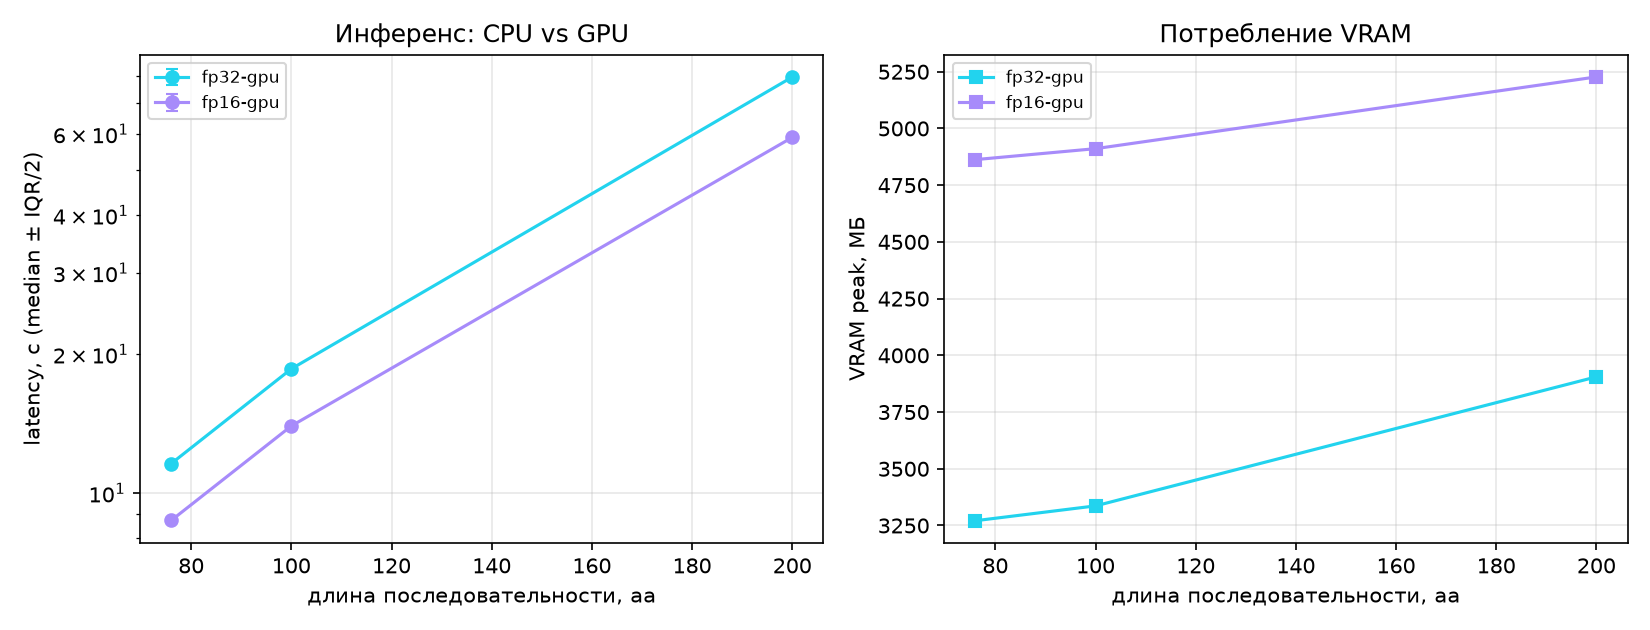
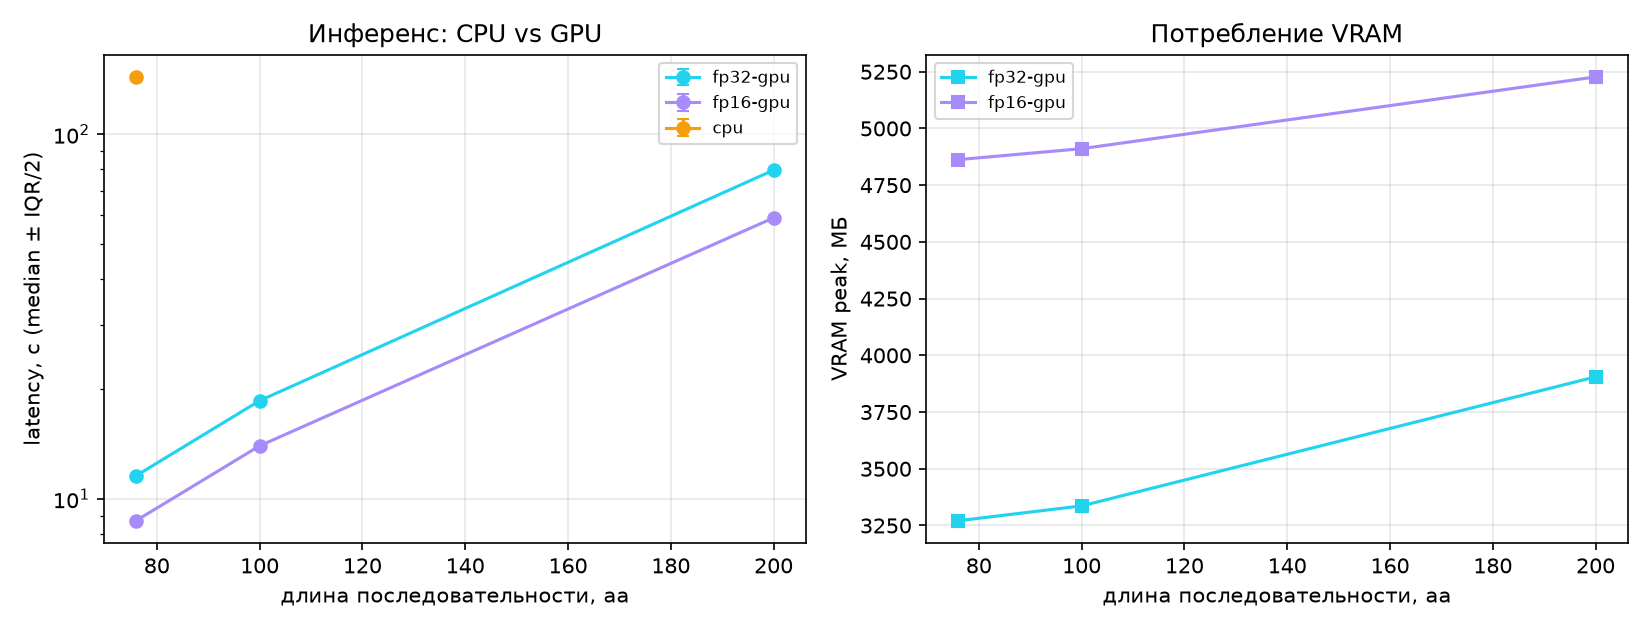
Final benchmark data: CPU 76aa 143.5s (12.4x GPU gap), fig1 with CPU point (VRAM panel filtered), docs updated

diff --git a/scripts/12_make_report_figures.py b/scripts/12_make_report_figures.py
@@ -37,8 +37,10 @@ def fig_inference(rows: list[dict]) -> None:
         e = [r["wall_iqr_s"] / 2 for r in rr]
         ax1.errorbar(x, y, yerr=e, marker="o", capsize=3,
                      label=profile, color=COLORS.get(profile))
-        vr = [r.get("vram_peak_mb") or 0 for r in rr]
-        ax2.plot(x, vr, marker="s", label=profile, color=COLORS.get(profile))
+        vr = [(r["length"], r["vram_peak_mb"]) for r in rr if r.get("vram_peak_mb")]
+        if vr:
+            ax2.plot([p[0] for p in vr], [p[1] for p in vr], marker="s",
+                     label=profile, color=COLORS.get(profile))
     ax1.set_yscale("log")
     ax1.set_xlabel("длина последовательности, aa")
     ax1.set_ylabel("latency, с (median ± IQR/2)")
